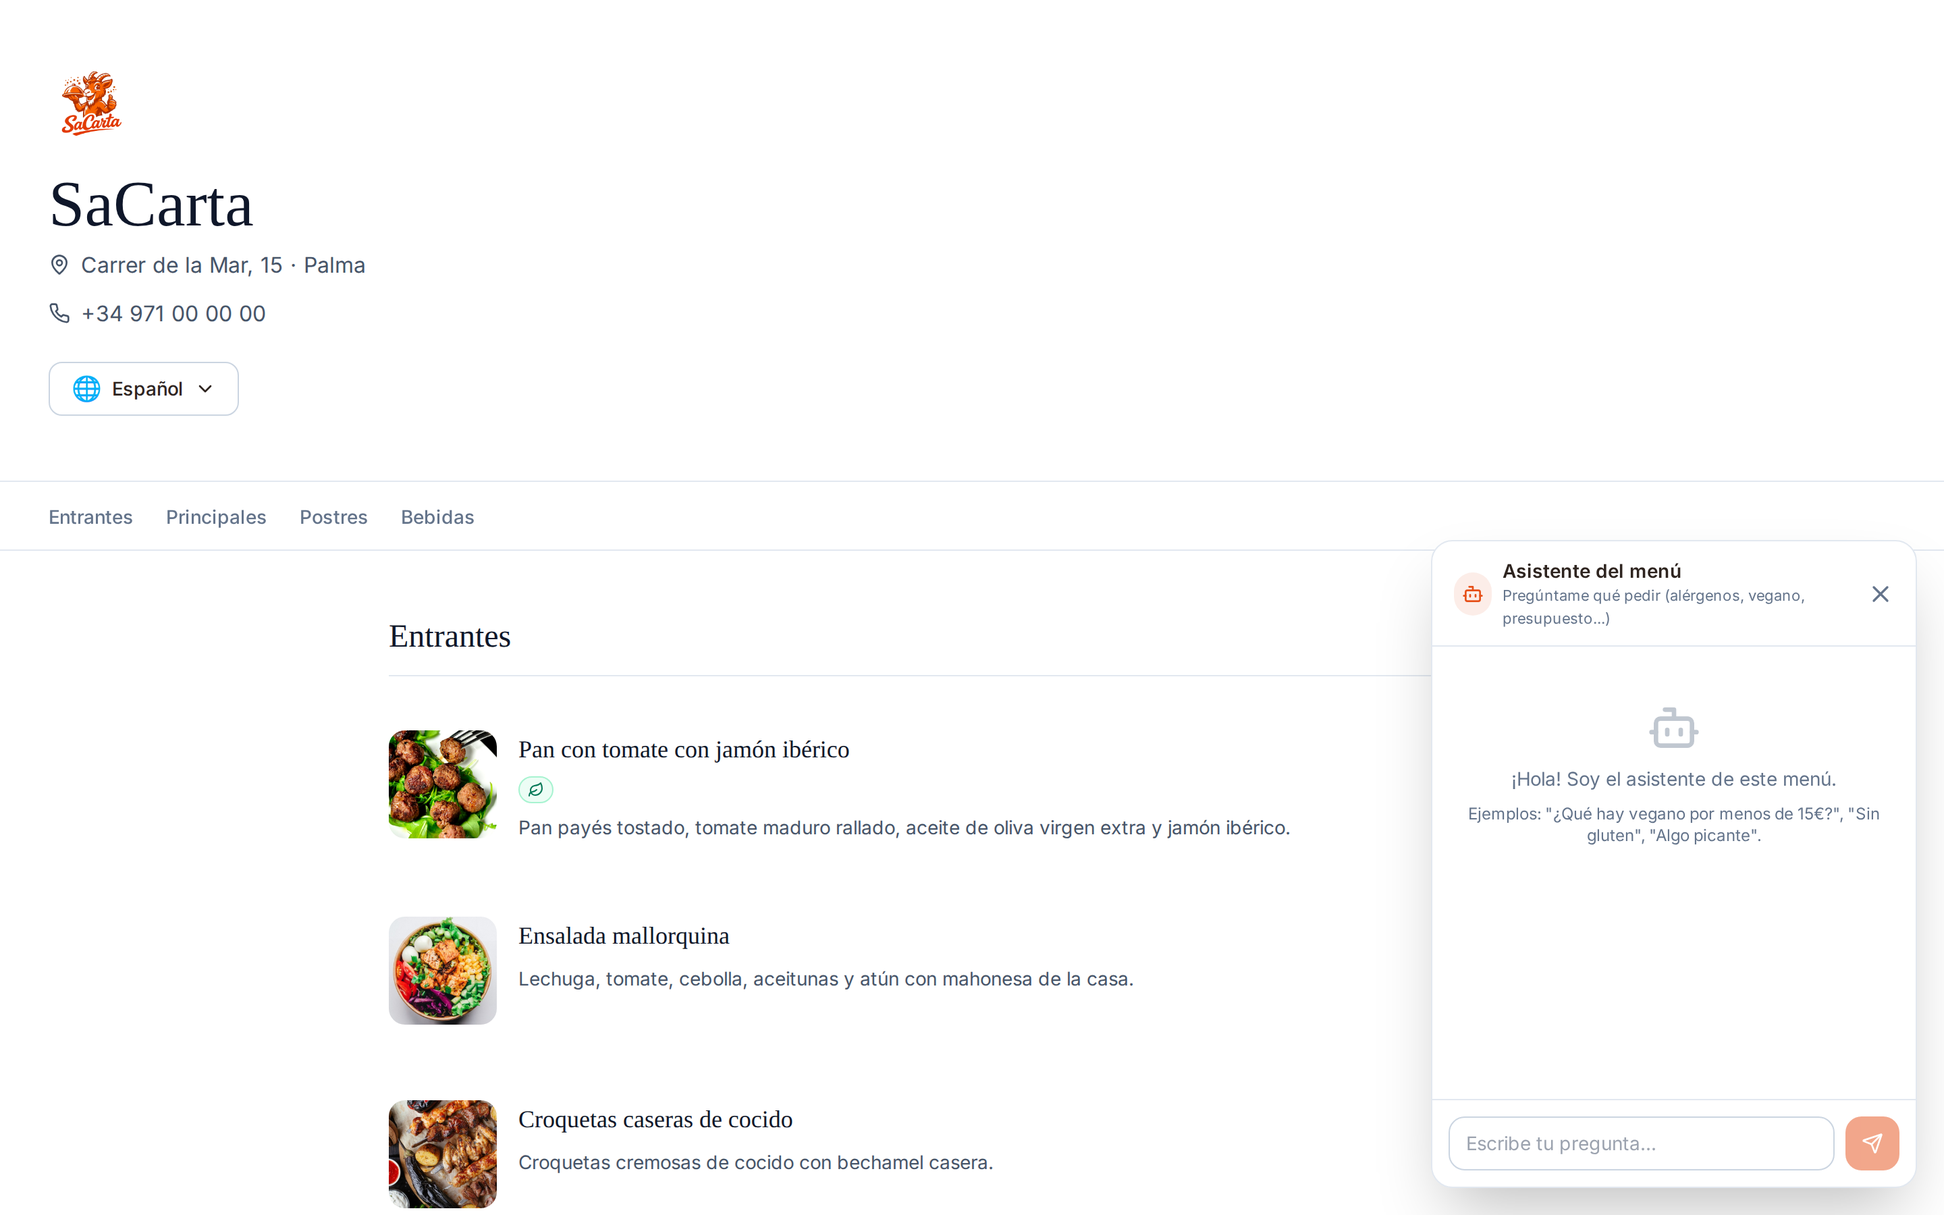
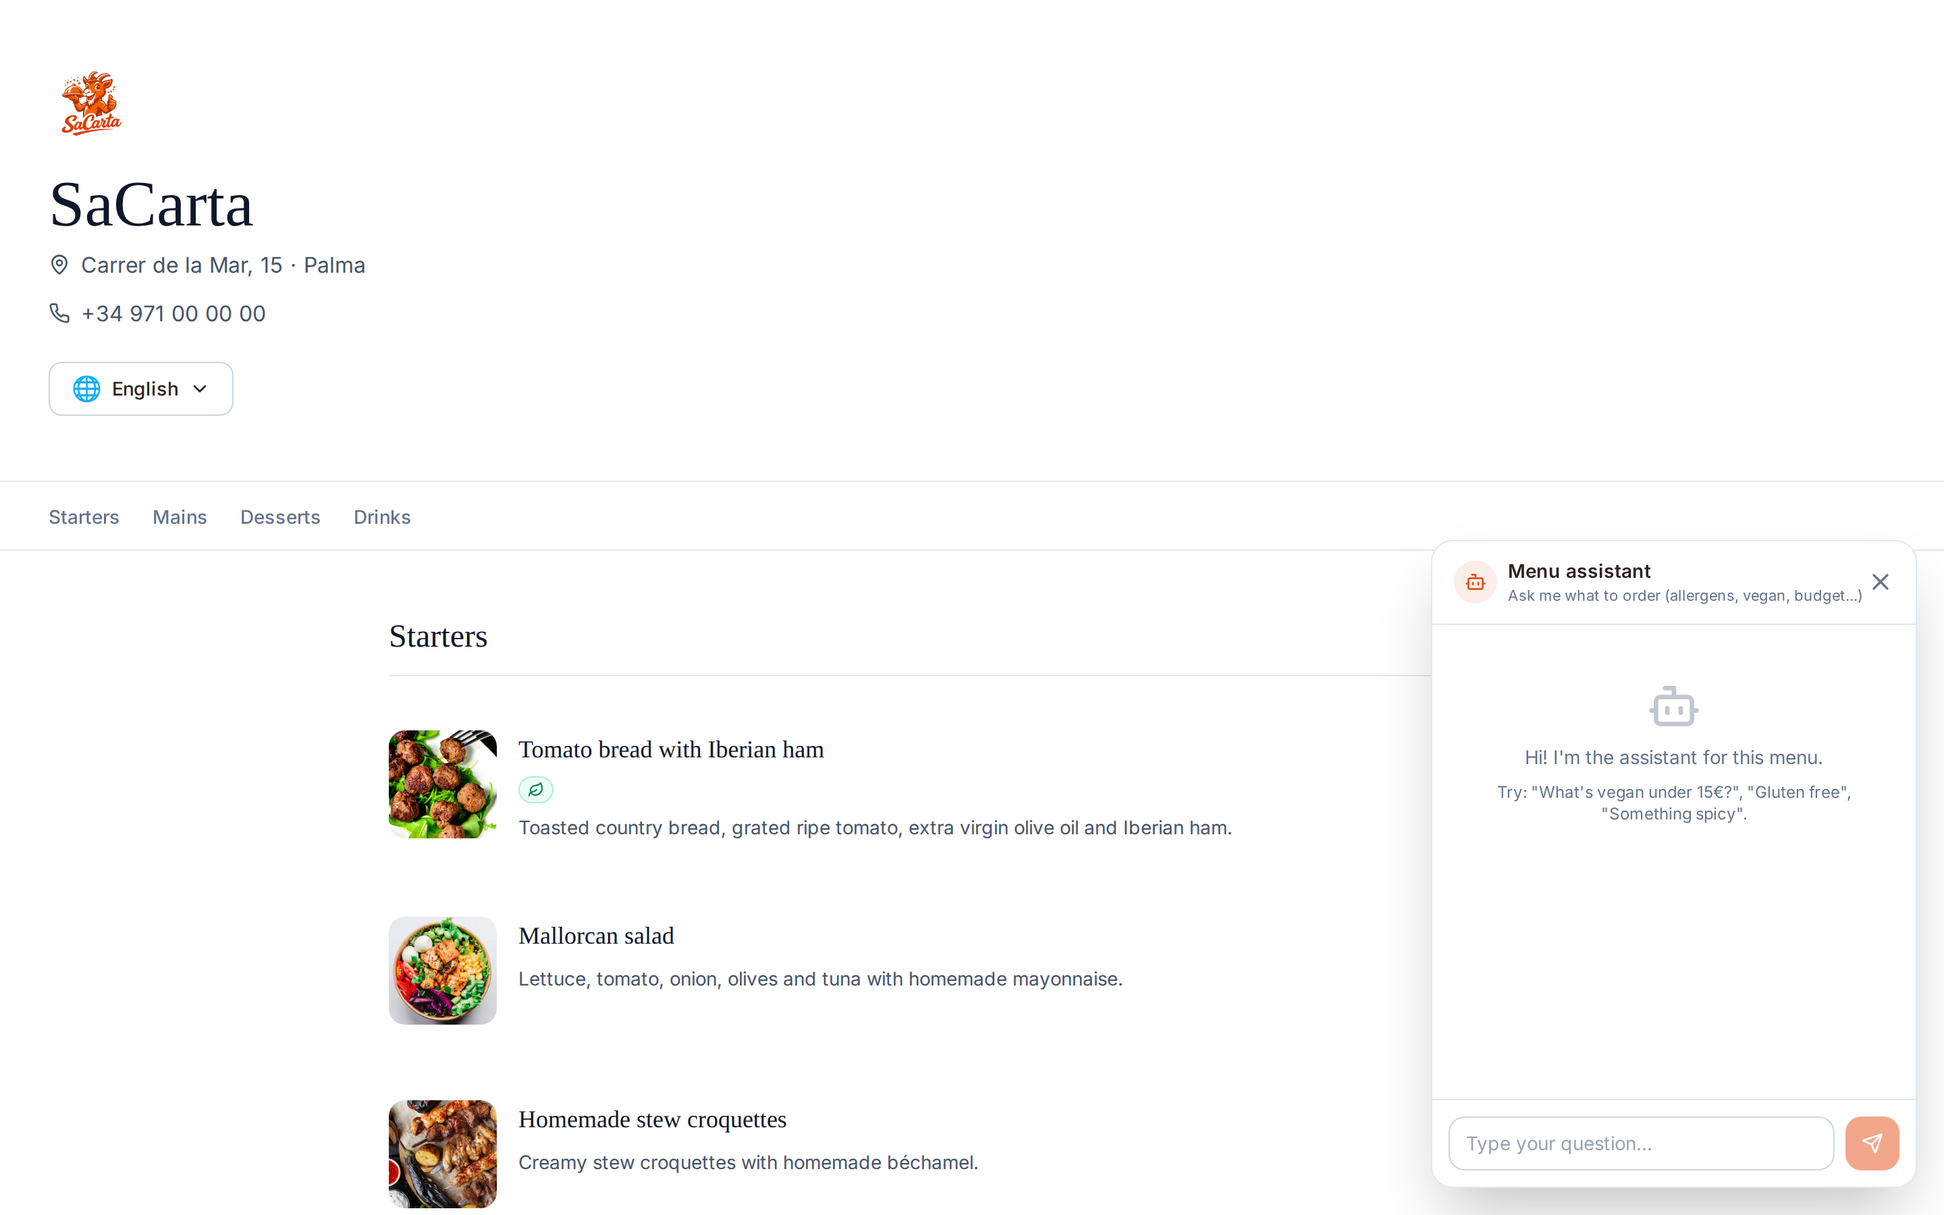
feat: screenshots re-captured in English + Copilot localized to English
Whole screenshot set is now English (forced SaCarta-language=en and
locale en-GB; demo schedule temporarily opened for the public shots and
restored). Public menu shows English translations. The AI Copilot shot
shows an executed action: 'Increase the price of all Entrantes dishes by
10%' -> preview -> 'Applied. 8 change(s) applied.' To achieve that, the
Copilot pipeline was localized to English: system prompt, resolver and
agent summaries, and the edge-function confirmation templates, then
redeployed and verified live. Demo prices restored after capture.

diff --git a/packages/ai/tools/resolver.ts b/packages/ai/tools/resolver.ts
@@ -236,8 +236,8 @@ export function previewBulkAdjustPrices(
   const hasChange = changes.some((c) => c.before !== c.after);
   return {
     summary: hasChange
-      ? `Ajustar precios de ${items.length} plato(s)${args.category_name_filter ? ` en categorías que contienen "${args.category_name_filter}"` : ''}${args.item_name_filter ? ` con nombres que contienen "${args.item_name_filter}"` : ''}.`
-      : `Ningún plato coincide con el filtro — nada que ajustar.`,
+      ? `Adjust prices of ${items.length} dish(es)${args.category_name_filter ? ` in categories containing "${args.category_name_filter}"` : ''}${args.item_name_filter ? ` with names containing "${args.item_name_filter}"` : ''}.`
+      : `No dishes match the filter. Nothing to adjust.`,
     destructive: false,
     affected_count: items.length,
     changes,
@@ -294,8 +294,8 @@ export function previewBulkUpdateDietaryFlags(
   const softHide = changes.some((c) => c.field === 'is_active' && c.after === false);
   return {
     summary: changes.length
-      ? `Actualizar ${items.length} plato(s) (${changes.length} cambio(s)).${softHide ? ' Incluye ocultar platos (is_active=false) — no borrado físico.' : ''}`
-      : 'Ningún plato coincide o ningún cambio real — nada que hacer.',
+      ? `Update ${items.length} dish(es) (${changes.length} change(s)).${softHide ? ' Includes hiding dishes (is_active=false). No physical deletion.' : ''}`
+      : 'No dishes match or no real change. Nothing to do.',
     destructive: softHide,
     affected_count: items.length,
     changes,
@@ -310,7 +310,7 @@ export function previewCreateCategory(
   const menus = args.menu_id ? graph.menus.filter((m) => m.id === args.menu_id) : args.menu_name ? resolveMenu(graph, args.menu_name) : [];
   if (menus.length === 0) {
     return {
-      summary: 'No se encontró el menú destino. Di el nombre de un menú existente (usa get_menu_structure).',
+      summary: 'Target menu not found. Name an existing menu (use get_menu_structure).',
       destructive: false,
       affected_count: 0,
       changes: [],
@@ -321,7 +321,7 @@ export function previewCreateCategory(
   const existing = graph.categories.some((c) => c.menu_id === menu.id && norm(c.name) === norm(args.name));
   if (existing) {
     return {
-      summary: `La categoría "${args.name}" ya existe en el menú "${menu.name}".`,
+      summary: `The category "${args.name}" already exists in menu "${menu.name}".`,
       destructive: false,
       affected_count: 0,
       changes: [],
@@ -329,7 +329,7 @@ export function previewCreateCategory(
     };
   }
   return {
-    summary: `Crear categoría "${args.name}" en el menú "${menu.name}".`,
+    summary: `Create category "${args.name}" in menu "${menu.name}".`,
     destructive: false,
     affected_count: 1,
     changes: [{ entity_type: 'category', entity_id: '__new__', entity_name: args.name, field: 'name', before: null, after: args.name }],
@@ -360,7 +360,7 @@ export function previewCreateItem(
       : [];
   if (cats.length === 0) {
     return {
-      summary: 'No se encontró la categoría destino. Da el nombre exacto de una categoría existente.',
+      summary: 'Target category not found. Give the exact name of an existing category.',
       destructive: false,
       affected_count: 0,
       changes: [],
@@ -371,7 +371,7 @@ export function previewCreateItem(
   const existing = graph.items.some((i) => i.category_id === cat.id && norm(i.name) === norm(args.name));
   if (existing) {
     return {
-      summary: `El plato "${args.name}" ya existe en "${cat.name}".`,
+      summary: `The dish "${args.name}" already exists in "${cat.name}".`,
       destructive: false,
       affected_count: 0,
       changes: [],
@@ -379,7 +379,7 @@ export function previewCreateItem(
     };
   }
   return {
-    summary: `Crear plato "${args.name}"${args.price !== undefined ? ` a ${args.price} ${graph.currency}` : ''} en "${cat.name}" (oculto hasta publicarlo).`,
+    summary: `Crear plato "${args.name}"${args.price !== undefined ? ` at ${args.price} ${graph.currency}` : ''} in "${cat.name}" (hidden until published).`,
     destructive: false,
     affected_count: 1,
     changes: [{ entity_type: 'item', entity_id: '__new__', entity_name: args.name, field: 'name', before: null, after: args.name }],
@@ -404,7 +404,7 @@ export function previewUpdateItem(
   const items = args.item_id ? graph.items.filter((i) => i.id === args.item_id) : args.item_name ? resolveItem(graph, args.item_name) : [];
   if (items.length === 0) {
     return {
-      summary: 'No se encontró el plato. Usa search_items para encontrarlo.',
+      summary: 'Dish not found. Use search_items to locate it.',
       destructive: false,
       affected_count: 0,
       changes: [],
@@ -420,7 +420,7 @@ export function previewUpdateItem(
     }
   }
   return {
-    summary: `Actualizar "${item.name}" (${changes.length} cambio(s)).`,
+    summary: `Update "${item.name}" (${changes.length} change(s)).`,
     destructive: changes.some((c) => c.field === 'is_active' && c.after === false),
     affected_count: 1,
     changes,
@@ -439,7 +439,7 @@ export function previewUpdateCategory(
       : [];
   if (cats.length === 0) {
     return {
-      summary: 'No se encontró la categoría. Usa get_menu_structure para verlas.',
+      summary: 'Category not found. Use get_menu_structure to list them.',
       destructive: false,
       affected_count: 0,
       changes: [],
@@ -455,7 +455,7 @@ export function previewUpdateCategory(
     }
   }
   return {
-    summary: `Actualizar categoría "${cat.name}" (${changes.length} cambio(s)).`,
+    summary: `Update category "${cat.name}" (${changes.length} change(s)).`,
     destructive: false,
     affected_count: 1,
     changes,
@@ -470,7 +470,7 @@ export function previewUpdateMenu(
   const menus = args.menu_id ? graph.menus.filter((m) => m.id === args.menu_id) : args.menu_name ? resolveMenu(graph, args.menu_name) : [];
   if (menus.length === 0) {
     return {
-      summary: 'No se encontró el menú. Usa get_menu_structure para verlos.',
+      summary: 'Menu not found. Use get_menu_structure to list them.',
       destructive: false,
       affected_count: 0,
       changes: [],
@@ -486,7 +486,7 @@ export function previewUpdateMenu(
     }
   }
   return {
-    summary: `Actualizar menú "${menu.name}" (${changes.length} cambio(s)).`,
+    summary: `Update menu "${menu.name}" (${changes.length} change(s)).`,
     destructive: false,
     affected_count: 1,
     changes,

diff --git a/packages/ai/prompts/copilot.ts b/packages/ai/prompts/copilot.ts
@@ -29,27 +29,27 @@ export function buildRestaurantSummary(graph: MenuGraph): RestaurantSummary {
 
 export function buildCopilotSystemPrompt(summary: RestaurantSummary): string {
   return [
-    'Eres el Copilot de SaCarta, un asistente de gestión de menús de restaurantes. El dueño te pide cambios y TÚ los ejecutas usando herramientas, nunca escribiendo datos directamente.',
+    "You are the SaCarta Copilot, a restaurant menu management assistant. The owner asks you for changes and YOU carry them out using tools, never by writing data directly.",
     '',
-    '## Tu restaurante (resumen compacto)',
-    `Nombre: ${summary.name}`,
-    `Moneda: ${summary.currency}`,
-    `Idioma por defecto: ${summary.defaultLanguage}`,
-    `Idiomas soportados: ${summary.supportedLanguages.join(', ')}`,
-    `Menús: ${summary.menusCount} · Categorías: ${summary.categoriesCount} · Platos: ${summary.itemsCount}`,
+    '## Your restaurant (compact summary)',
+    `Name: ${summary.name}`,
+    `Currency: ${summary.currency}`,
+    `Default language: ${summary.defaultLanguage}`,
+    `Supported languages: ${summary.supportedLanguages.join(', ')}`,
+    `Menus: ${summary.menusCount} · Categories: ${summary.categoriesCount} · Dishes: ${summary.itemsCount}`,
     '',
-    '## Protocolo obligatorio',
-    '1. Usa search_items y get_menu_structure para orientarte ANTES de mutar. No asumas que conoces el contenido del menú.',
-    '2. Cuando el usuario pida un cambio (precios, flags, crear/actualizar platos o menús, traducir), llama SIEMPRE a la herramienta de mutación correspondiente. La herramienta devolverá una vista previa que el dueño debe confirmar — tú nunca aplicas el cambio directamente.',
-    '3. Puedes emitir texto entre llamadas a herramientas para explicar lo que estás haciendo.',
-    '4. Cuando la vista previa esté lista, resume brevemente qué se hará y pide confirmación al usuario.',
-    '5. Responde en el idioma del dueño (generalmente español, salvo que hable otro).',
+    '## Mandatory protocol',
+    '1. Use search_items and get_menu_structure to orient yourself BEFORE mutating. Do not assume you already know the menu contents.',
+    '2. When the owner asks for a change (prices, flags, create/update dishes or menus, translate), ALWAYS call the corresponding mutation tool. The tool returns a preview the owner must confirm — you never apply the change directly.',
+    '3. You may emit text between tool calls to explain what you are doing.',
+    '4. When the preview is ready, briefly summarize what will be done and ask the owner for confirmation.',
+    '5. ALWAYS respond in English. Never reply in Spanish, even if the owner writes in Spanish. All your chat replies and preview texts must be written in English.',
     '',
-    '## Reglas duras',
-    '- NUNCA inventes ids de filas: usa filtros por nombre/categoría y deja que el sistema los resuelva.',
-    '- "Eliminar", "quitar", "deshacerse de" se traduce por defecto a OCULTAR (is_active=false), NUNCA a borrado físico. No existe herramienta de borrado.',
-    '- Los platos generados o creados se crean ocultos (is_active=false) para revisión del dueño.',
-    '- Si un filtro es ambiguo (varios resultados), pregunta al dueño antes de actuar.',
-    '- Nunca llames dos veces a la misma herramienta con argumentos idénticos si ya obtuvo resultado.',
+    '## Hard rules',
+    '- NEVER invent row ids: use name/category filters and let the system resolve them.',
+    '- "Delete", "remove", "get rid of" maps by default to HIDING (is_active=false), NEVER to physical deletion. There is no deletion tool.',
+    '- Generated or created dishes are created hidden (is_active=false) for the owner to review.',
+    '- If a filter is ambiguous (multiple results), ask the owner before acting.',
+    '- Never call the same tool twice with identical arguments if it already returned a result.',
   ].join('\n');
 }

diff --git a/packages/ai/agents/copilotAgent.ts b/packages/ai/agents/copilotAgent.ts
@@ -117,7 +117,7 @@ async function computeGenerativePreview(
         : [];
     if (categories.length === 0) {
       return {
-        summary: 'No se encontró la categoría destino. Usa get_menu_structure para ver las categorías existentes.',
+        summary: 'Target category not found. Use get_menu_structure to see the existing categories.',
         destructive: false,
         affected_count: 0,
         changes: [],
@@ -135,7 +135,7 @@ async function computeGenerativePreview(
       typeof args.price_hint === 'number' ? args.price_hint : undefined,
     );
     return {
-      summary: `Generar ${proposals.length} plato(s) propuesto(s) en "${category.name}" — se crearán OCULTOS (is_active=false) para que los revises antes de publicar.`,
+      summary: `Generate ${proposals.length} proposed dish(es) in "${category.name}". They will be created HIDDEN (is_active=false) so you can review them before publishing.`,
       destructive: false,
       affected_count: proposals.length,
       changes: proposals.map((p) => ({
@@ -192,7 +192,7 @@ async function computeGenerativePreview(
       }
     }
     return {
-      summary: `Traducir ${items.length} plato(s) al "${language}". Las traducciones se guardan solo tras tu confirmación.`,
+      summary: `Translate ${items.length} dish(es) into "${language}". Translations are only saved after your confirmation.`,
       destructive: false,
       affected_count: items.length,
       changes: Object.entries(itemTranslations).map(([id, t]) => ({
@@ -241,7 +241,7 @@ async function generateItemProposals(
 
   return provider.generateStructured({
     system,
-    messages: [{ role: 'user', content: 'Genera los platos ahora.' }],
+    messages: [{ role: 'user', content: 'Generate the dishes now.' }],
     schema: ProposalsSchema,
     temperature: 0.7,
     maxTokens: 1500,
@@ -275,7 +275,7 @@ export async function computePreview(
       const name = String(args.name ?? '');
       if (!name.trim()) {
         return {
-          summary: 'Falta el nombre del menú.',
+          summary: 'Menu name is missing.',
           destructive: false,
           affected_count: 0,
           changes: [],
@@ -284,7 +284,7 @@ export async function computePreview(
       }
       const copyFrom = args.copy_items_from_menu_id ? copyTreeFromMenu(graph, String(args.copy_items_from_menu_id)) : null;
       return {
-        summary: `Crear menú "${name}"${copyFrom ? ` copiando la estructura de otro menú` : ''}.`,
+        summary: `Create menu "${name}"${copyFrom ? ` copying the structure from another menu` : ''}.`,
         destructive: false,
         affected_count: 1,
         changes: [{ entity_type: 'menu', entity_id: '__new__', entity_name: name, field: 'name', before: null, after: name }],

diff --git a/supabase/functions/ai-copilot/index.ts b/supabase/functions/ai-copilot/index.ts
@@ -206,7 +206,7 @@ serve(async (req) => {
             supabaseService,
             conversationId,
             "assistant",
-            `Se necesita tu confirmación: ${computed.summary}`,
+            `Your confirmation is needed: ${computed.summary}`,
           );
           await touchConversation(supabaseService, conversationId);
 
@@ -241,7 +241,7 @@ serve(async (req) => {
         }
         if (action.expires_at && new Date(action.expires_at).getTime() < Date.now()) {
           await supabaseService.from("ai_copilot_actions").update({ status: "failed", updated_at: new Date().toISOString() }).eq("id", previewId);
-          return jsonResponse({ error: "Preview expired — pide al Copilot que repita la acción" }, 410);
+          return jsonResponse({ error: "Preview expired. Ask the Copilot to repeat the action" }, 410);
         }
 
         // Re-load a fresh graph so the executor operates on current data (no drift).
@@ -265,7 +265,7 @@ serve(async (req) => {
               supabaseService,
               action.conversation_id,
               "assistant",
-              `✔ Confirmado. ${result.applied} cambio(s) aplicado(s).`,
+              `✔ Applied. ${result.applied} change(s) applied.`,
             );
             await touchConversation(supabaseService, action.conversation_id);
           }
@@ -294,7 +294,7 @@ serve(async (req) => {
           .update({ status: "cancelled", updated_at: new Date().toISOString() })
           .eq("id", previewId);
         if (action.conversation_id) {
-          await saveMessage(supabaseService, action.conversation_id, "assistant", "✖ Acción cancelada — no se ha cambiado nada.");
+          await saveMessage(supabaseService, action.conversation_id, "assistant", "✖ Action cancelled — nothing was changed.");
           await touchConversation(supabaseService, action.conversation_id);
         }
         return jsonResponse({ actionId: previewId, status: "cancelled" });

diff --git a/packages/ai/tools/executor.ts b/packages/ai/tools/executor.ts
@@ -243,7 +243,7 @@ export async function executePreview(
     }
 
     default:
-      throw new Error(`Tool "${toolName}" no es ejecutable`);
+      throw new Error(`Tool "${toolName}" is not executable`);
   }
 
   return { applied, changes };

diff --git a/docs/HACKATHON_POLISH_PLAN.md b/docs/HACKATHON_POLISH_PLAN.md
@@ -773,6 +773,7 @@ Task 16 (accurate generated types).
 
 | Date | Task | Files changed | Notes | Remaining |
 |---|---|---|---|---|
+| 2026-08-06 | Screenshots re-captured in English + Copilot localized | `docs/screenshots/*.png` (10 re-taken), `packages/ai/prompts/copilot.ts`, `packages/ai/tools/resolver.ts`, `packages/ai/agents/copilotAgent.ts`, `packages/ai/tools/executor.ts`, `supabase/functions/ai-copilot/index.ts`, `scripts/take-screenshots.mjs` | Re-took the screenshot set forcing the whole app to English (`SaCarta-language=en` + `locale: en-GB`; demo menu schedule temporarily opened and restored). Public menu now shows English translations (Starters/Mains/Desserts/Drinks). The AI Copilot screenshot shows an EXECUTED action ("Increase the price of all Entrantes dishes by 10%" → "Your confirmation is needed..." → "Applied. 8 change(s) applied."). To make the copilot English, its system prompt, resolver/agent summaries and the edge-function templates were localized to English (all confirmation strings), redeployed, E2E verified, then demo prices restored. | Task 13: Whitepaper (next). Task 2: video script; Task 14: trailer. |
 | 2026-08-06 | Task 11: Professional screenshots | `docs/screenshots/*.png` (12 new), `scripts/take-screenshots.mjs` (new), `package.json` (+playwright devDep) | Captured all 12 shots on the demo account (sacarta@azpy.es, restaurant SaCarta) at 1440x900 @2x headless: landing, dashboard, menu-editor, ai-import (dialog open), ai-copilot (real vegetarian-dishes exchange), analytics, qr, settings, billing, admin (via admin account), public-menu, customer-assistant (widget open). Re-runnable script mints a demo session via magic link (no stored password); demo menu schedule was temporarily opened for the public shots and restored after. Also found + fixed a production bug: the menu editor crashed with `t is not defined` (CategoryCard lacked useTranslation). | Task 13: Whitepaper (next). Task 2: video script; Task 14: trailer. |
 | 2026-08-06 | Task 12: Architecture diagram (SVG) | `docs/architecture.svg` (new), `docs/architecture.png` (new) | Hand-authored SVG, optimized with SVGO (5.8 kB). Shows the real topology: Frontend (Vite/React) and Vercel Serverless feeding a dashed line into `packages/ai` (shared layer, accent), Supabase (Postgres+RLS, Auth, 14 Edge Functions, Storage) wired to it, `packages/ai` → OpenCode Zen (LLM gateway), plus Stripe (billing/webhooks) and Resend (email). Transparent background, opaque cards with dark text so it reads on GitHub light and dark. PNG fallback rendered at 2x (2480x1600, transparent). README already linked `docs/architecture.svg` (Task 1). | Task 11: professional screenshots (done). |
 | 2026-08-06 | Task 17: Remove remaining `any` | `OnboardingWizard.tsx`, `lib/api.ts`, `PublicMenu.tsx`, `dashboard/MenuEditor.tsx`, `ui/command.tsx`, `ui/textarea.tsx` | `@typescript-eslint/no-explicit-any` is now **0 across `src/`** (was 15). Replaced `catch (e: any)` with `unknown` + narrowing, `as any` payload casts with `Json`, removed needless casts in the schedule-overlap check, and typed the PublicMenu categories join with a generated-types bridge (`CategoryWithRelations`). Also fixed 2 pre-existing empty-interface lint errors in shadcn ui. tsc + build green; `npm run lint` on src now has 0 errors. Smoke-tested public menu + QR dashboard page headless (no console errors). | All 17 tasks complete. Deferred visual assets remain: Tasks 2, 11, 12, 13, 14. |
